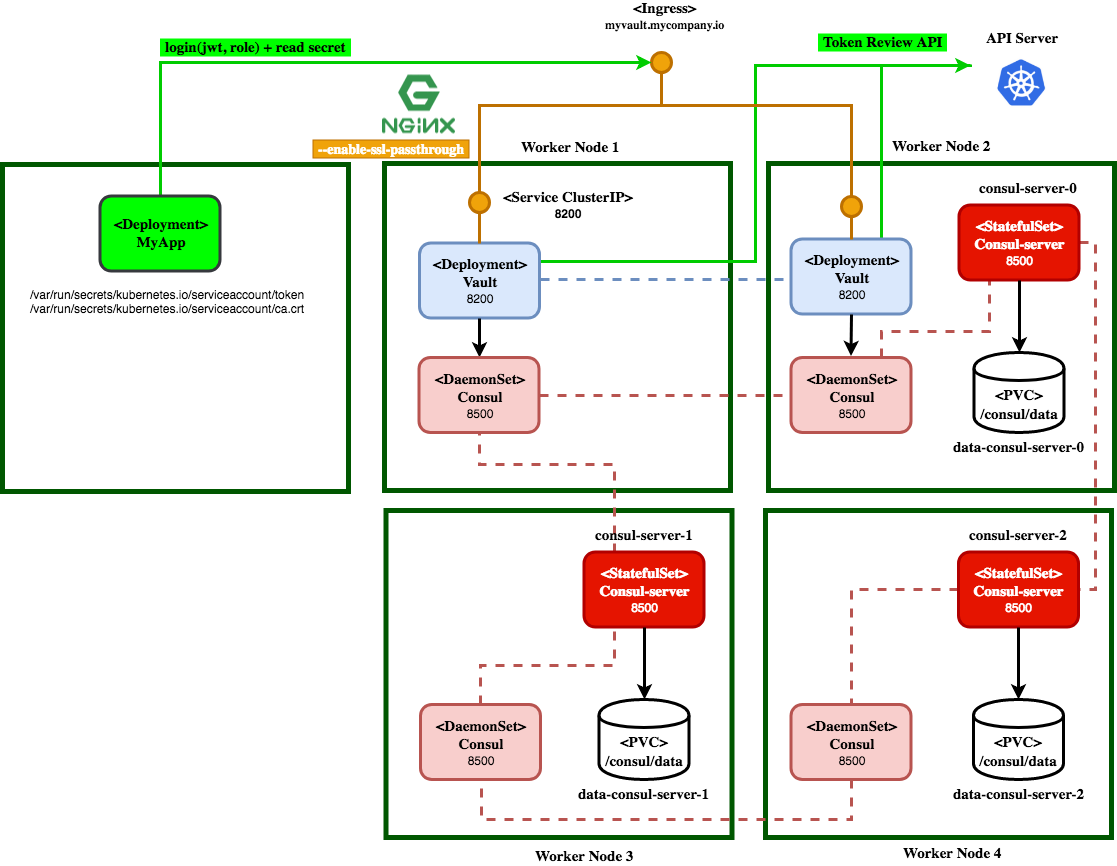
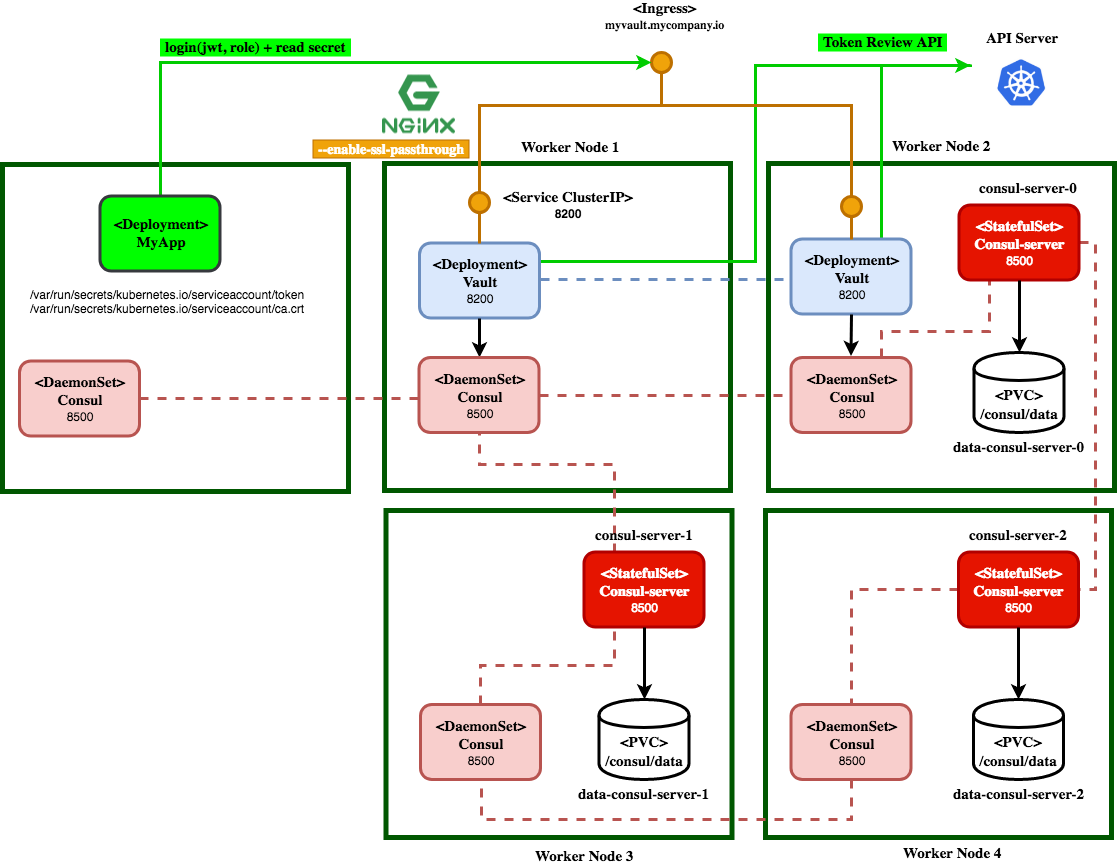
demoit

Changed region(s): [[0.0, 0.4053, 0.1522, 0.53]]

diff --git a/demoit/demoit.html b/demoit/demoit.html
@@ -278,6 +278,12 @@
 
 ---
 
+<h1>Vault Admin</h1>
+
+<img src="/images/diag7.png" />
+
+---
+
 <h1>Vault Admin: Recap</h1>
 
 <h2>API Server</h2>
